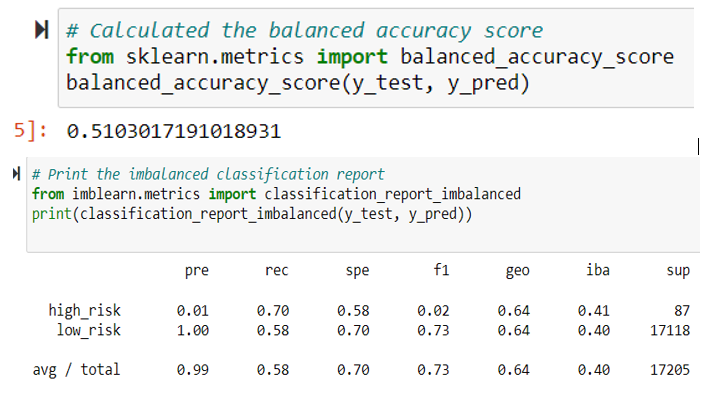
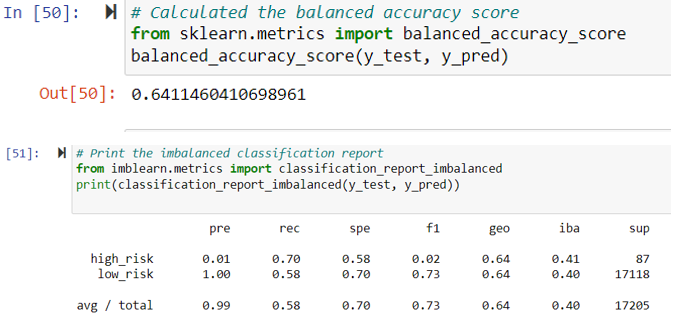
smoteen model, predict then performance

diff --git a/README.md b/README.md
@@ -47,7 +47,7 @@ The algorithm identifies clusters of the majority class, then generates syntheti
 - __Combination (Over and Under) Sampling - with SMOTEENN:__
 An approach to resampling that combines aspects of both oversampling and undersampling. SMOTEENN is a two-step process: One is: Oversample the minority class with SMOTE. Second is: Clean the resulting data with an undersampling strategy. If the two nearest neighbors of a data point belong to two different classes, that data point is dropped.
 The pre and rec results show an improvement over undersampling. F1 and recall values improved with over and under combination sampling model.
-    - Accuracy score: 0.51
+    - Accuracy score: 0.64
     - Precision: high risk: 0.01 and low risk: 1.00
     - Recall: high risk: 0.70 and low risk: 0.58
     - F1: high risk: 0.02 and low risk: 0.73
